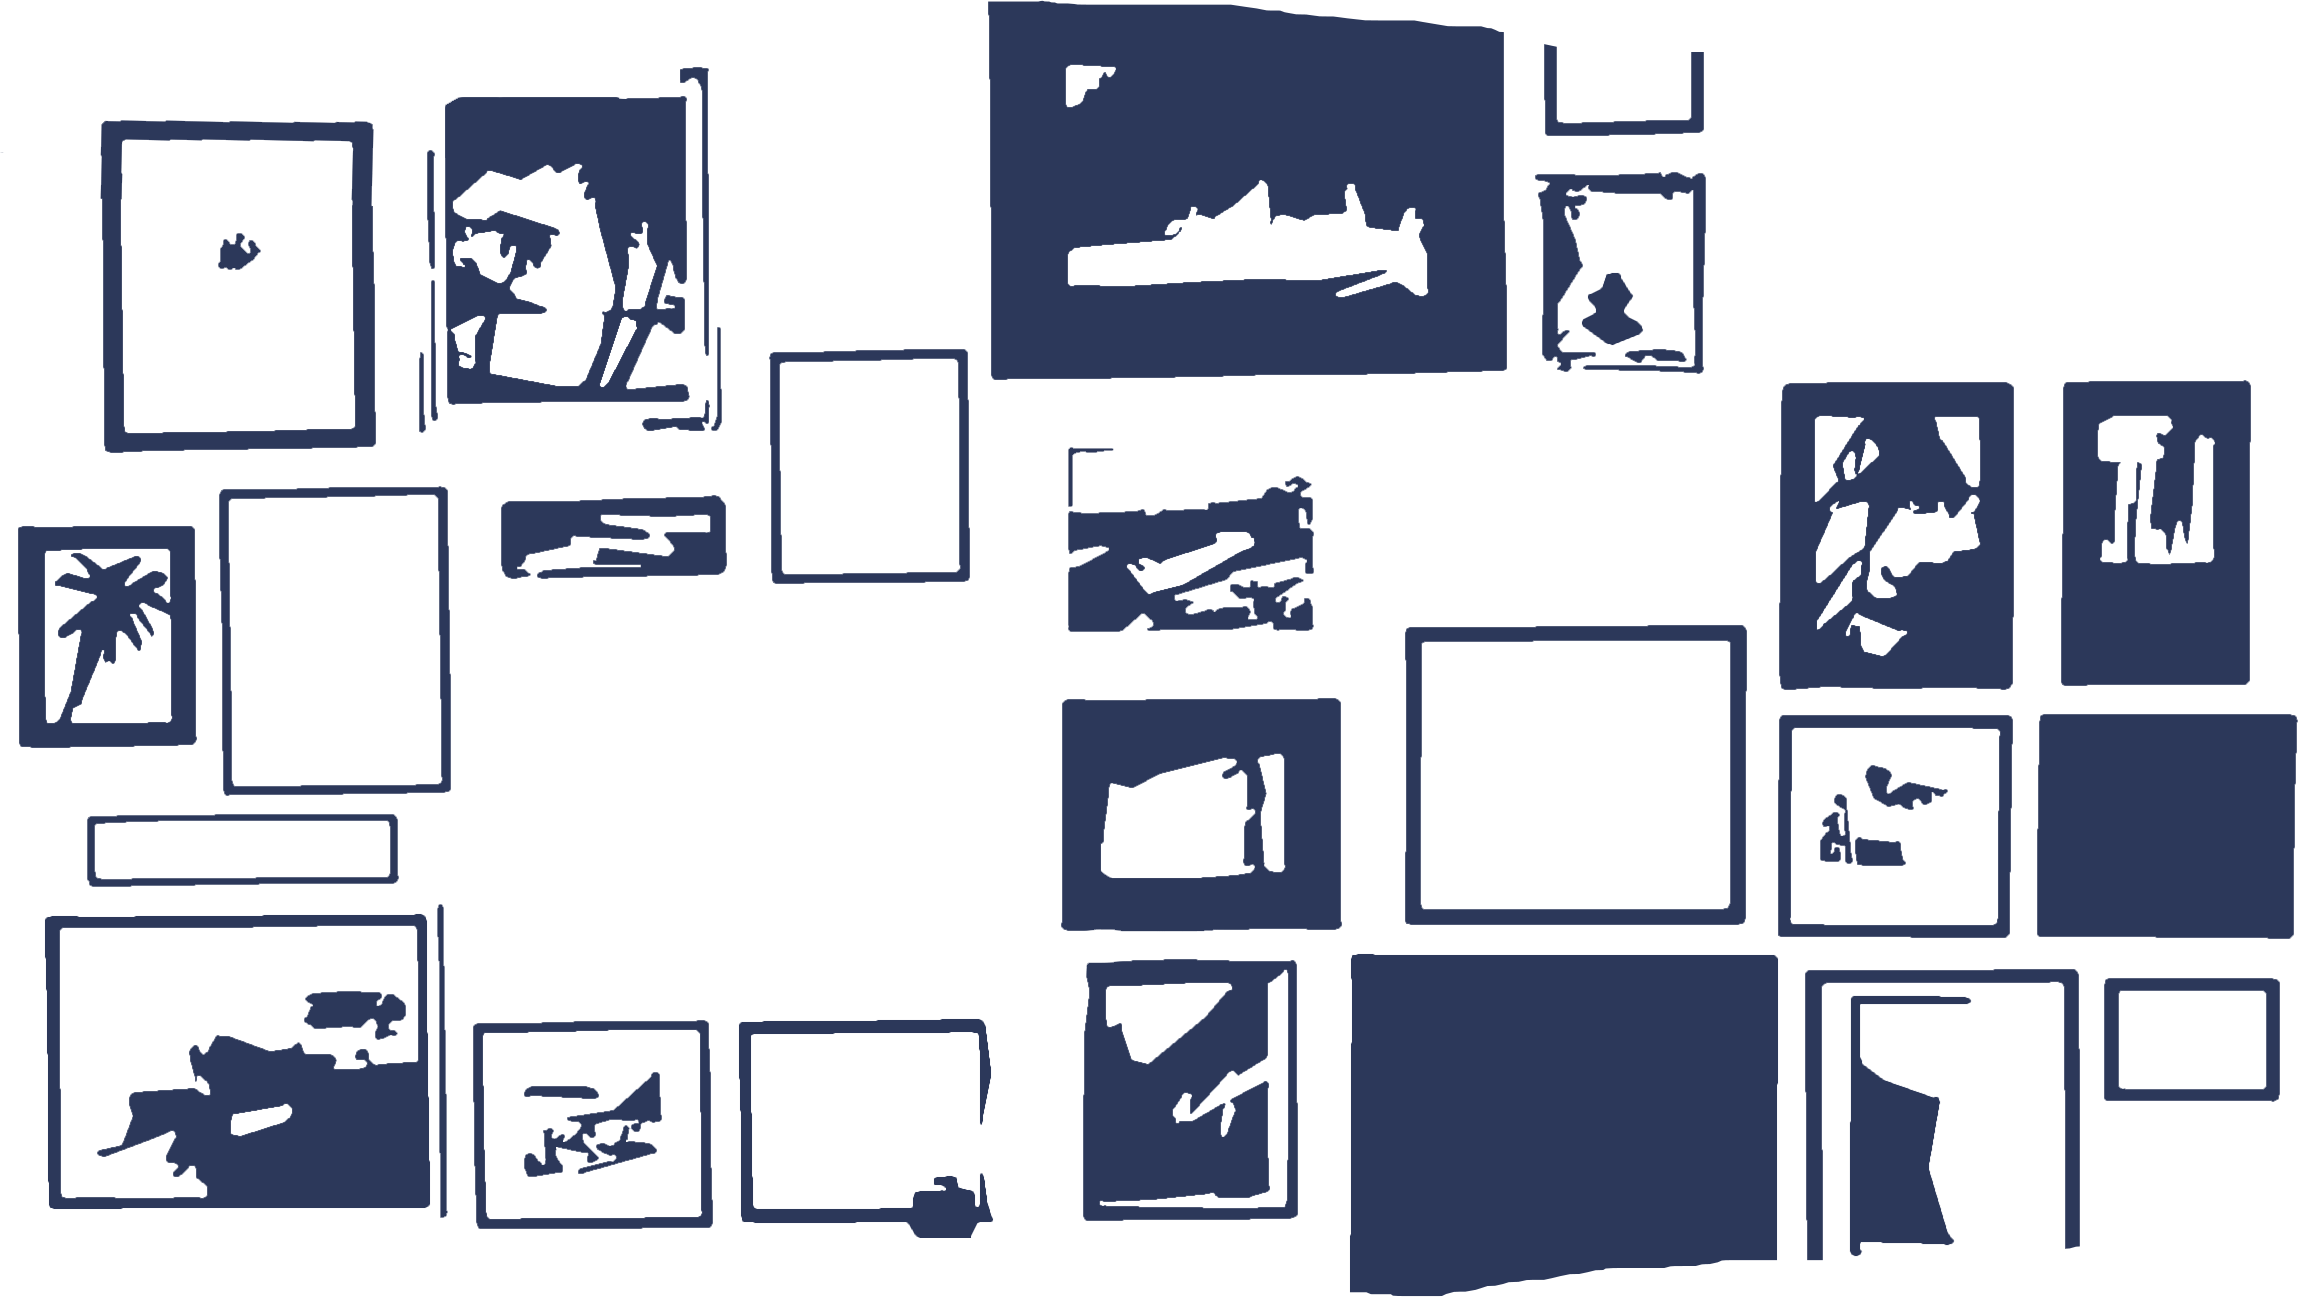
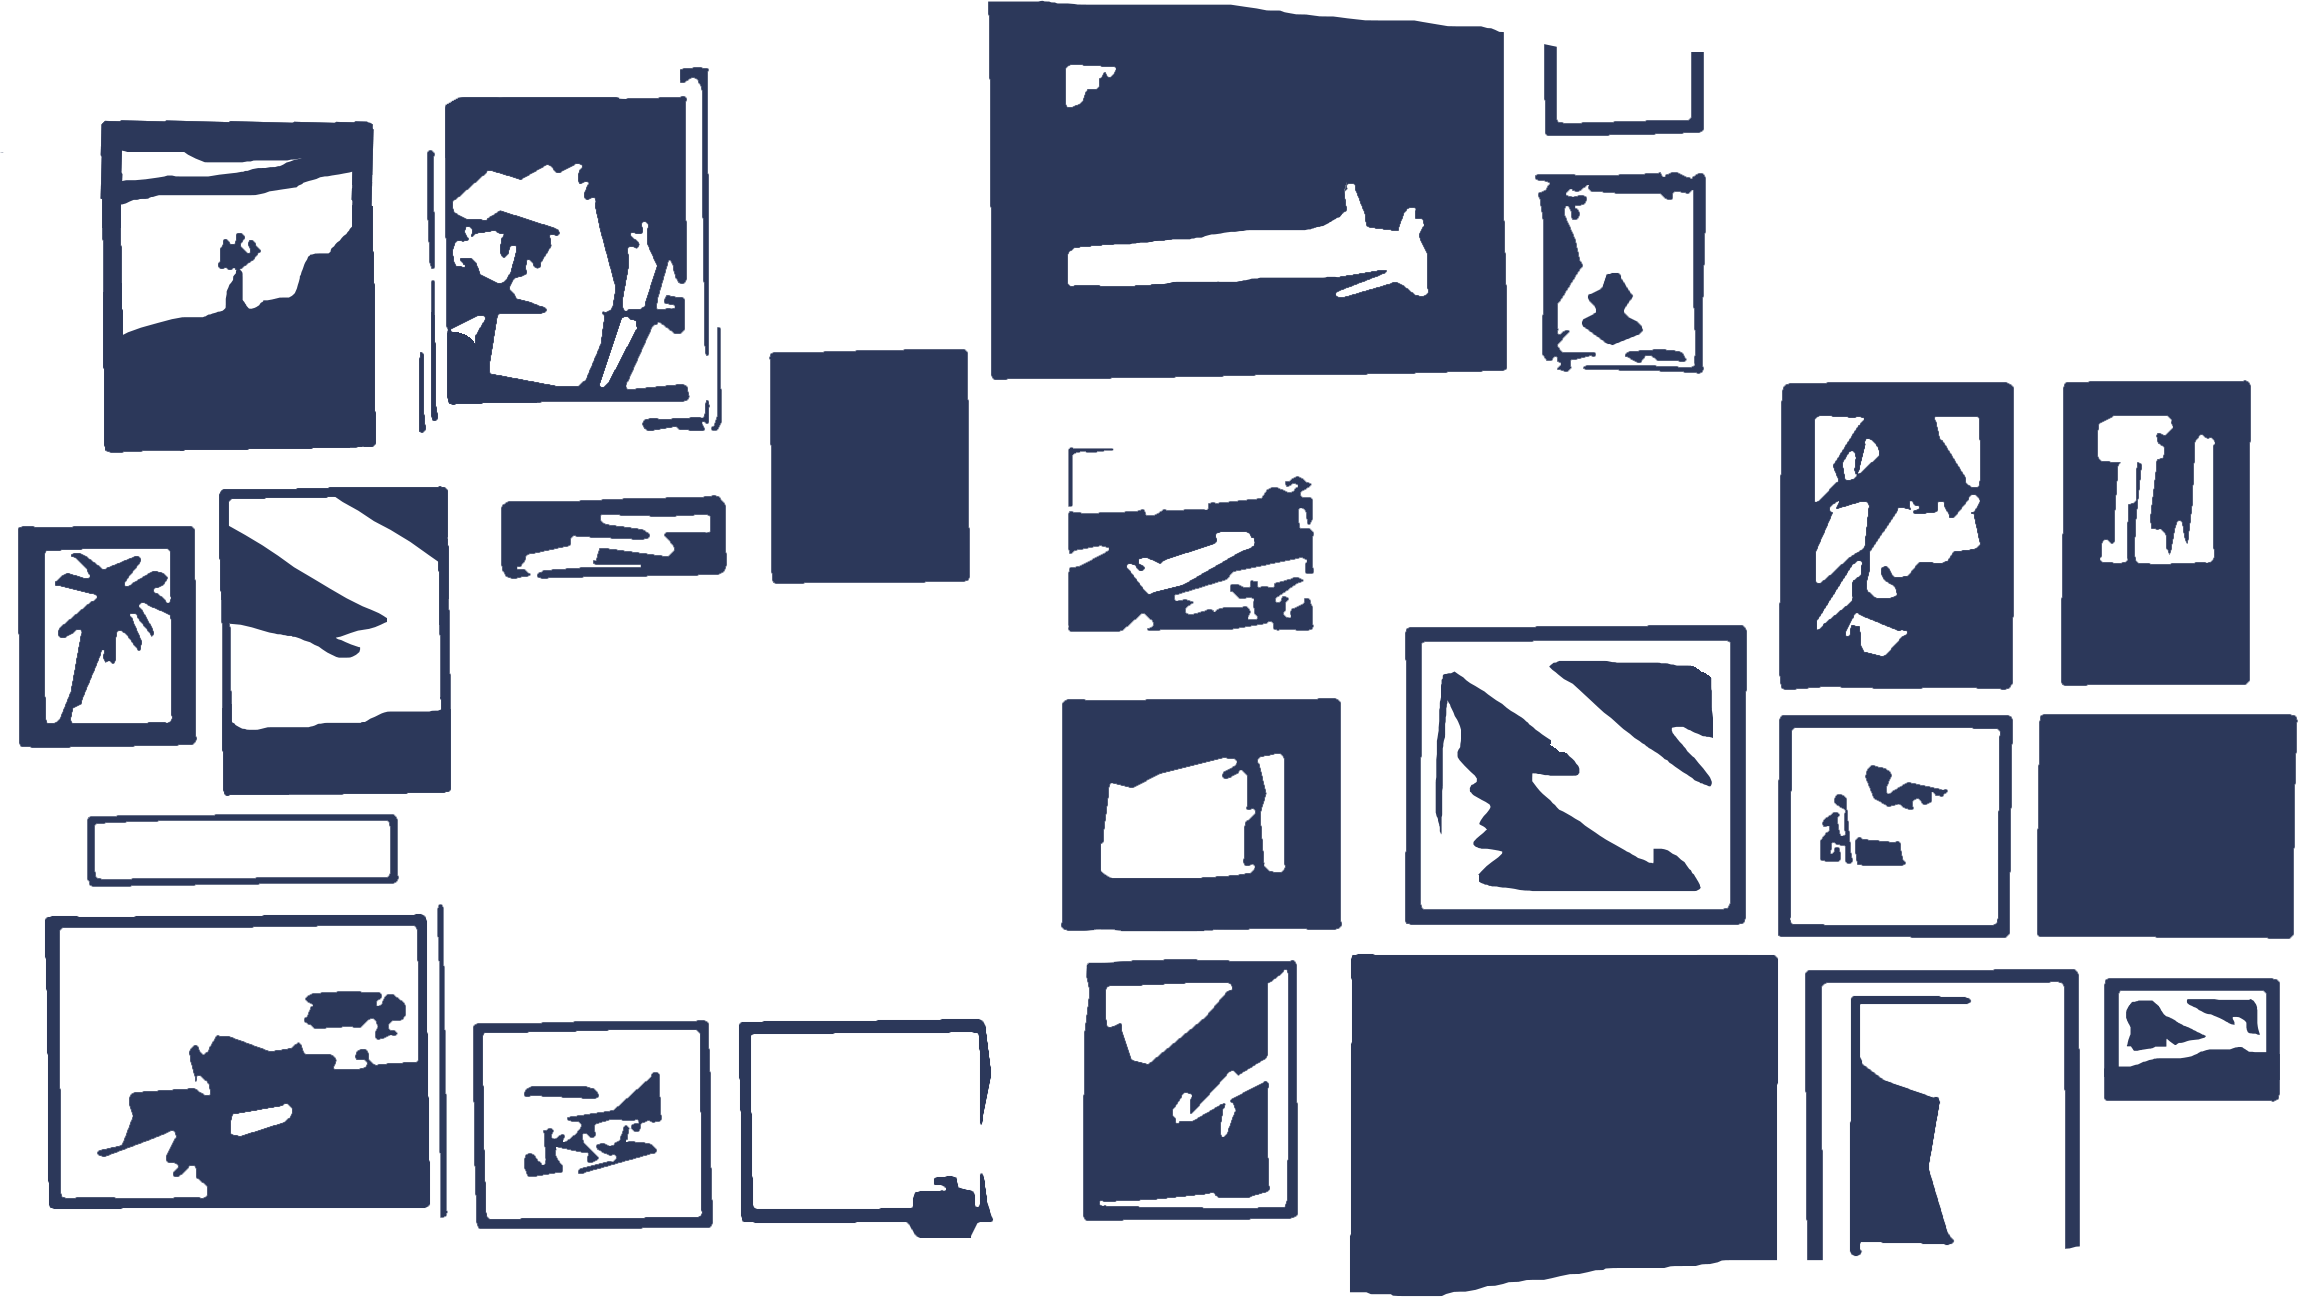
Hover effects over library and gallery sections

diff --git a/index.html b/index.html
@@ -34,7 +34,7 @@
               <span class="highlight">FUEGO</span>
               ERA LA PARTÍCULA QUE COMPONÍA TODO, SIEMPRE DINÁMICO, ATADO AL LOGOS POR ENCENDERSE Y APAGARSE CON LA MISMA MESURA.<br><br>
               <span class="highlight">«TODOS LOS HOMBRES, EL HOMBRE; TODOS LOS FUEGOS, EL FUEGO»</span>
-              . <br><br>EL MISMO HOMBRE CONTEMPLANDO EL MISMO
+              <br><br>EL MISMO HOMBRE CONTEMPLANDO EL MISMO
               <span class="highlight">FUEGO</span>
               . EL MISMO
               <span class="highlight">FUEGO</span>
@@ -49,18 +49,24 @@
         <!-- Secciones: Biblioteca, Galería y Escenario -->
         <section>
           <div class="container">
-            <a href="https://www.google.com/" class="section-h2"><h2> LA BIBLIOTECA </h2></a>
-            <img src="Images/library.png" class="section-img">
+            <a href="https://www.google.com/" onmouseover="library.src='Images/library2.png'" onmouseout="library.src='Images/library.png'" class="section-h2">
+              <h2> LA BIBLIOTECA </h2>
+            </a>
+            <img src="Images/library.png"  class="section-img" id="library">
           </div>
 
           <div class="container">
-            <a href="https://www.google.com/" class="section-h2"><h2> LA GALERIA </h2></a>
-            <img src="Images/gallery.png" class="section-img">
+            <a href="https://www.google.com/" onmouseover="gallery.src='Images/gallery2.png'" onmouseout="gallery.src='Images/gallery.png'" class="section-h2">
+              <h2> LA GALERIA </h2>
+            </a>
+            <img src="Images/gallery.png" class="section-img"  id="gallery">
           </div>
 
           <div class="container">
-            <a href="https://www.google.com/" class="section-h2"><h2> EL ESCENARIO </h2></a>
-            <img src="Images/theatre.png" class="section-img">
+            <a href="https://www.google.com/" onmouseover="theatre.src='Images/theatre2.png'" onmouseout="theatre.src='Images/theatre.png'" class="section-h2">
+              <h2> EL ESCENARIO </h2>
+            </a>
+            <img src="Images/theatre.png" class="section-img" id="theatre">
           </div>
         </section>
     </body>

diff --git a/styles.css b/styles.css
@@ -19,7 +19,7 @@ html,body{
     --color-dark: #060b19;
     --color-light: #4e629b;
     --color-highlight: #ff10f0;
-    --color-white: #e5e4e2;
+    --color-white: #a9a7d0;
 }
 
 
@@ -41,7 +41,7 @@ body {
     font-family: 'Roboto Slab', sans-serif;
     text-align: center;
     font-size: 17vw;
-    color: var(--color-dark);
+    color: var(--color-dark) !important;
     line-height: 1em;
 }
 
@@ -50,13 +50,13 @@ body {
     background-size: cover;
     padding: 5%;
     padding-bottom: 25%;
-    margin: -1%;
+    margin-top: -1%;
 }
 
 .header-p {
     font-family: 'EB Garamond', serif;
     font-size: max(2em,2vw);
-    color: var(--color-dark);
+    color: var(--color-dark) !important;
     text-align: center;
 }
 
@@ -67,7 +67,7 @@ body {
 
 .statue-p {
     font-family: 'EB Garamond', serif;
-    color: var(--color-light);
+    color: var(--color-white);
     font-size: max(2em,2vw);
 }
 
@@ -81,6 +81,7 @@ body {
 .wrapper {
     padding: 5%;
     display: inline-block;
+    margin-top: 20%;
 }
 
 .container {
@@ -102,6 +103,8 @@ body {
 }
 
 .section-h2 {
+    padding-left: 5%;
+    padding-right: 5%;
     position: absolute;
     top: 65%;
     left: 50%;
@@ -109,8 +112,13 @@ body {
     font-family: 'Roboto Slab', sans-serif;
     text-align: center;
     font-size: 3em;
-    color: var(--color-light);
+    color: var(--color-white);
     line-height: 2em;
     background-color: var(--color-dark);
     text-decoration: none;
+}
+
+.section-h2:hover {
+    color: var(--color-highlight);
+    text-decoration: underline;
 }
